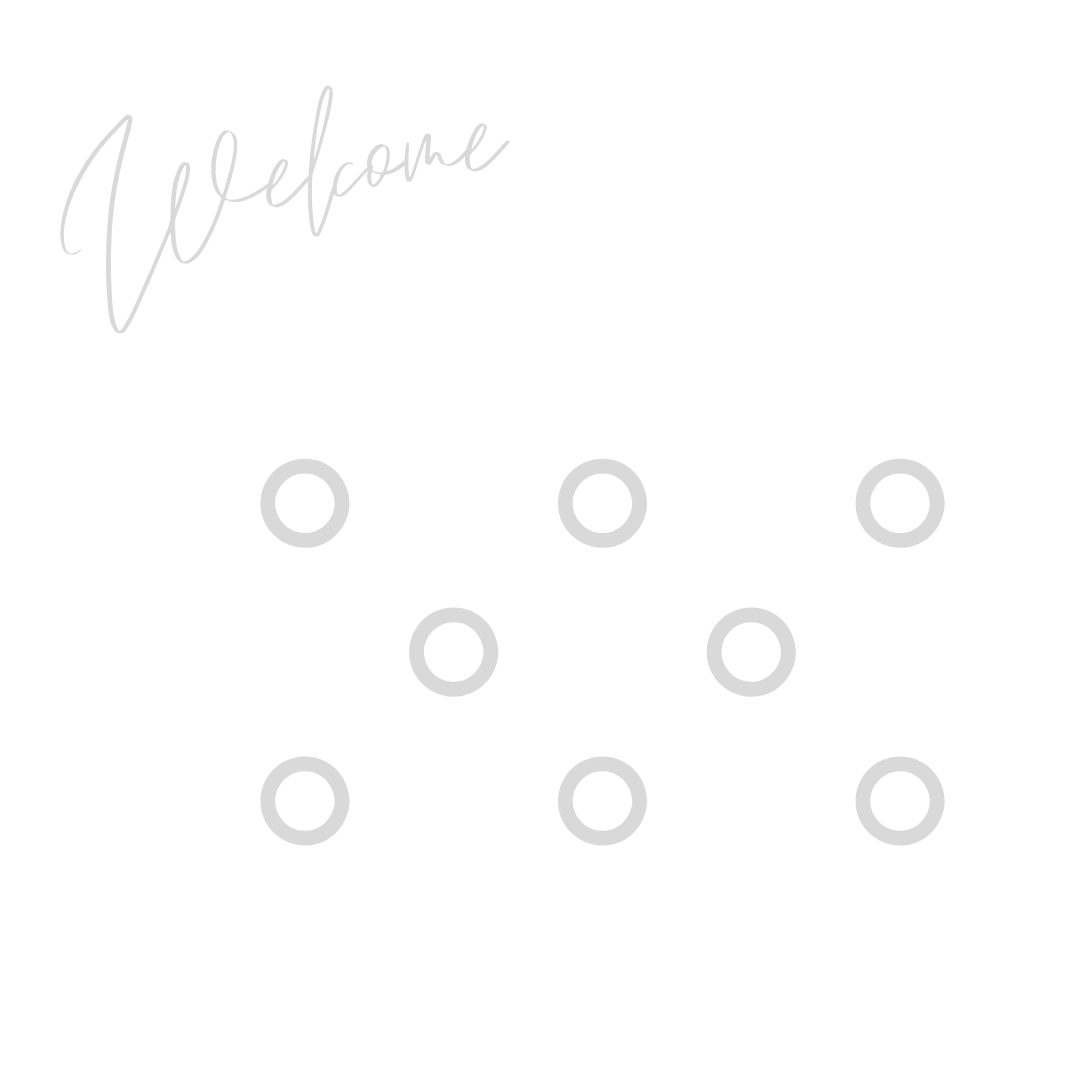
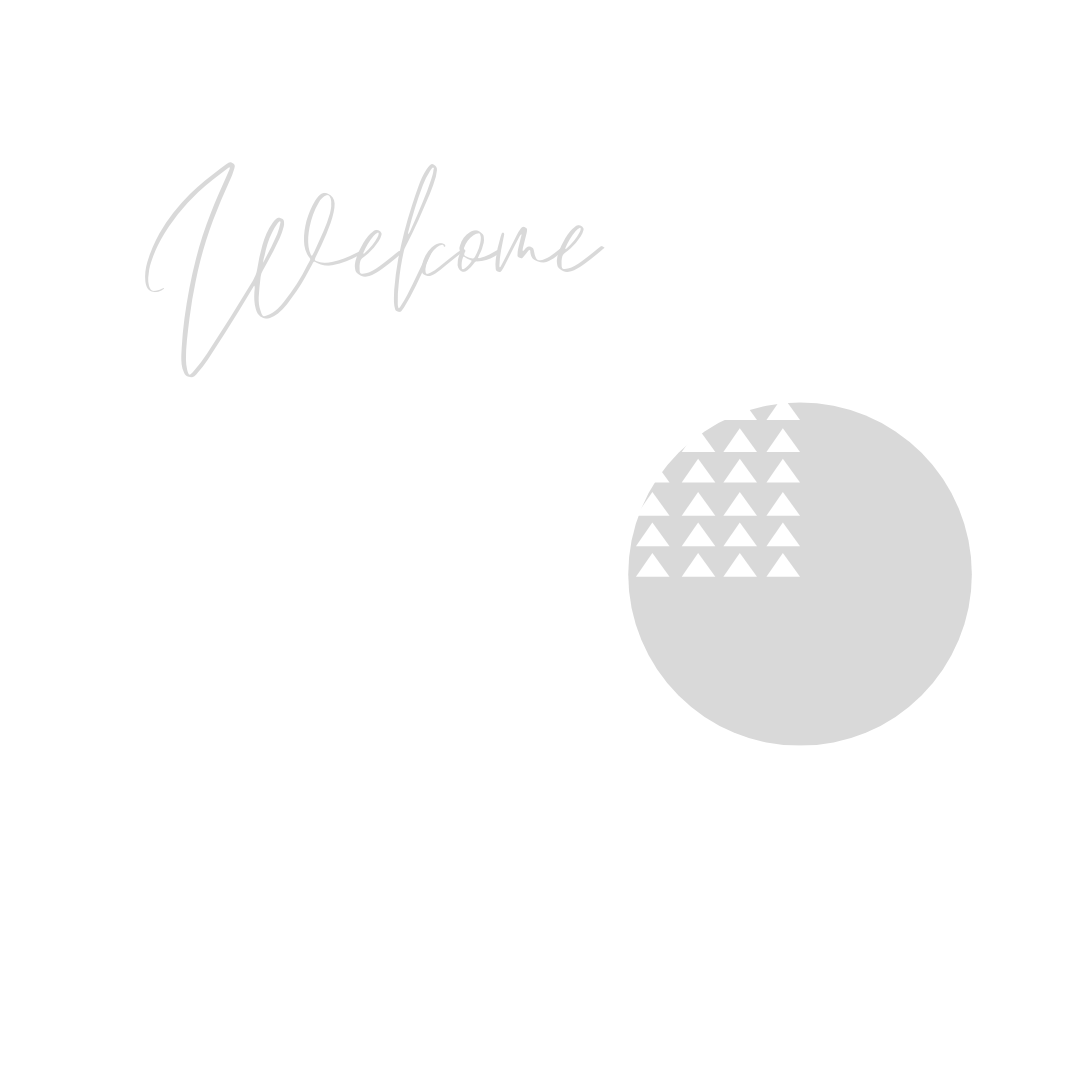
responsive design with header

diff --git a/css/WebsiteStylesheet.css b/css/WebsiteStylesheet.css
@@ -28,14 +28,24 @@ button.navbar-toggler {
     float: left;
 
 }
+#header-img {
+    width: 190px;
+    height: 180px;
+}
 .header{
     background-color: #313030;
-    height: 200px;
+    height: 180px;
 }
 
 #wel-img{
-    height:150px;
-    width: 150px;
+    height:200px;
+    width: 200px;
+}
+
+.wel-container{
+    display: flex;
+    justify-content: center;
+    align-items: center;
 }
 
 .menu ul {
@@ -144,6 +154,15 @@ button.navbar-toggler {
     }
 
 
+    #wel-img{
+        height:390px;
+        width: 390px;
+    }
+
+
+
+
+
 
     .about-section {
         padding-left: 0px;
@@ -177,17 +196,17 @@ button.navbar-toggler {
 @media (min-width: 992px) {
 
     #header-img {
-        width: 580px;
-        height: 577px;
+        width: 500px;
+        height: 500px;
     }
     .header {
-        height: 580px;
+        height: 500px;
     }
 
 
     #wel-img{
-        height:450px;
-        width: 450px;
+        height:540px;
+        width: 540px;
     }
 
 
@@ -318,4 +337,22 @@ button.navbar-toggler {
         font-size: 30px;
         width: 133px;
     }
+}
+
+@media screen and (min-width: 1200px) {
+
+
+
+    .wel-container{
+        display: flex;
+        justify-content: normal;
+
+
+    }
+    #wel-img{
+        height:600px;
+        width: 600px;
+        margin-left: 250px;
+    }
+
 }

diff --git a/index.html b/index.html
@@ -52,10 +52,10 @@ off canvas menu w/opacity-->
         <div class="row">
             <div class="col-6 header-art">
                 <div>
-                    <img id="header-img" src="img/mongolian.png" height="200" width="200"/></div>
+                    <img id="header-img" src="img/mongolian.png"/></div>
                 </div>
             <div class="col-3 header">
-                <div >
+                <div class="wel-container">
                     <img id="wel-img" style="opacity: 30%" src="img/Welcome.png" /></div>
                 </div>
         </div>
